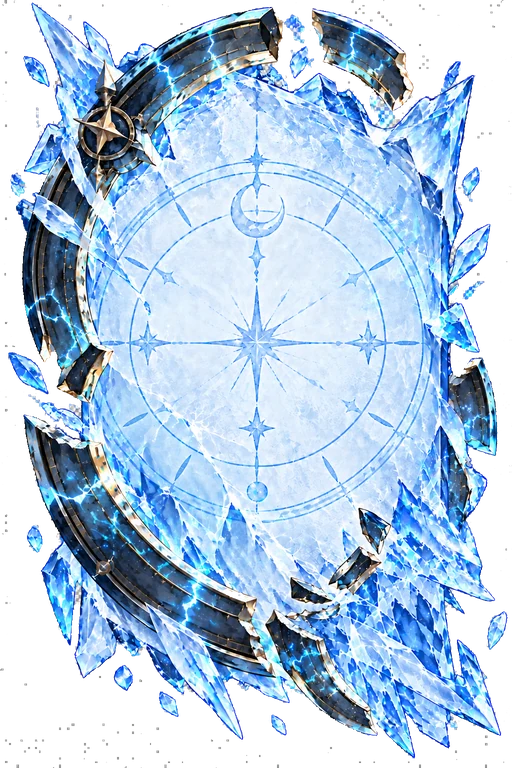
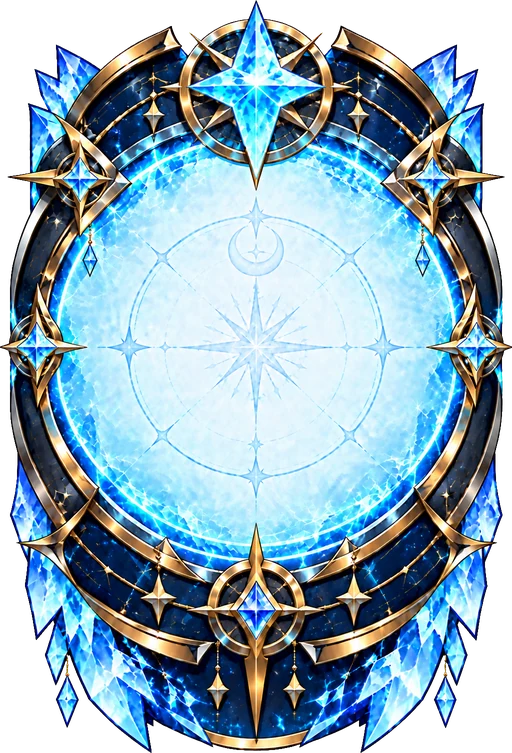
v132: 星環カードの差し替えと凍結表示の改善
星環カード
- 金の装飾と四方の星を持つ新デザインに変更
- 従来はセトラの通常カードと同じ青系で見分けがつかなかった
- グリーンバックを除去、512x753 140KB

凍結の残り秒
- 右下の小さいバッジ → カード中央の大きい表示に移動
- サイズを 13u → 22u、文字を 9u → 15u に拡大
- 中央で数字が重なるため、凍結中はカード本来の n-big を28%に減光
- 凍結演出のアニメも中央寄せの transform に合わせて修正

diff --git a/index.html b/index.html
@@ -1438,6 +1438,8 @@ body{background:linear-gradient(180deg,#0a0020 0%,#12002e 40%,#180040 70%,#1a003
     linear-gradient(58deg,transparent 44%,rgba(255,255,255,.95) 46%,transparent 48%),
     linear-gradient(-38deg,transparent 60%,rgba(255,255,255,.8) 62%,transparent 64%),
     linear-gradient(14deg,transparent 26%,rgba(255,255,255,.7) 28%,transparent 30%);}
+/* v132: 中央に秒数を出すので、凍結中はカード本来の大きい数字を薄くして重なりを避ける */
+.card-stage.frozen .n-big{opacity:.28;}
 /* v131: 凍った瞬間だけ強く光らせて見逃しを防ぐ */
 .card-stage.just-frz{animation:justFrz .9s ease-out both;}
 @keyframes justFrz{
@@ -1453,14 +1455,16 @@ body{background:linear-gradient(180deg,#0a0020 0%,#12002e 40%,#180040 70%,#1a003
   100%{opacity:1;transform:scale(1);}
 }
 .card-stage.just-frz .frz-sec{animation:justFrzSec .9s cubic-bezier(.2,1.4,.4,1) both;}
-@keyframes justFrzSec{0%{opacity:0;transform:scale(2.2);}45%{opacity:1;transform:scale(1);}100%{opacity:1;transform:scale(1);}}
+@keyframes justFrzSec{0%{opacity:0;transform:translate(-50%,-50%) scale(2.2);}45%{opacity:1;transform:translate(-50%,-50%) scale(1);}100%{opacity:1;transform:translate(-50%,-50%) scale(1);}}
 
-.frz-sec{position:absolute;right:calc(2.5 * var(--u));bottom:calc(2 * var(--u));z-index:8;pointer-events:none;
-  min-width:calc(13 * var(--u));height:calc(13 * var(--u));padding:0 calc(2 * var(--u));
-  display:flex;align-items:center;justify-content:center;border-radius:calc(6.5 * var(--u));
-  font-family:'Inter',sans-serif;font-weight:900;font-size:calc(9 * var(--u));color:#06304d;
-  background:linear-gradient(160deg,#eaf9ff,#a8dcf7);border:1px solid rgba(255,255,255,.9);
-  box-shadow:0 calc(1 * var(--u)) calc(3 * var(--u)) rgba(0,40,80,.5);}
+/* v132: 残り秒はカード中央に大きく出す（右下だと見づらいため） */
+.frz-sec{position:absolute;left:50%;top:50%;transform:translate(-50%,-50%);z-index:8;pointer-events:none;
+  min-width:calc(22 * var(--u));height:calc(22 * var(--u));padding:0 calc(3 * var(--u));
+  display:flex;align-items:center;justify-content:center;border-radius:calc(11 * var(--u));
+  font-family:'Inter',sans-serif;font-weight:900;font-size:calc(15 * var(--u));color:#06304d;
+  background:linear-gradient(160deg,rgba(240,252,255,.97),rgba(160,215,245,.95));
+  border:calc(1.2 * var(--u)) solid rgba(255,255,255,.95);
+  box-shadow:0 calc(1.5 * var(--u)) calc(5 * var(--u)) rgba(0,40,80,.55),0 0 calc(8 * var(--u)) rgba(150,220,255,.6);}
 
 /* v120: イントロ動画。画面いっぱいに出し、タップでスキップ */
 .iv-screen{position:fixed;inset:0;z-index:210;background:#05070f;display:flex;align-items:center;justify-content:center;cursor:pointer;animation:bfIn .3s ease both;}
@@ -2952,7 +2956,8 @@ function TutorialScreen({pendingDiff,onFinish,onExit,trackNum,toggleMusic,coachN
 
 
 // ── MenuScreen ──
-const APP_VER='v131'; // v131(2026/09/09): セトラの凍結を3枚→1枚に緩和（勝率16%→49%）。凍結音の立ち上がりを76%強めて気づきやすく。凍った瞬間だけカードを光らせる演出を追加
+const APP_VER='v132'; // v132(2026/09/09): セトラの星環カードを金装飾入りの新デザインに変更（通常カードと見分けがつかなかったため）。凍結の残り秒を右下から中央の大きい表示に移動
+// v131(2026/09/09): セトラの凍結を3枚→1枚に緩和（勝率16%→49%）。凍結音の立ち上がりを76%強めて気づきやすく。凍った瞬間だけカードを光らせる演出を追加
 // v130(2026/09/09): セトラ戦の専用BGM（Frozen Judgment 3.6MB→2.3MB）。凍結まわりのSEを氷の音に作り直し。凍った札を誤タップした時は硬い氷を触る手応えの音
 // v129(2026/09/09): セトラ戦の専用素材を導入（対戦背景・セトラの通常カード・プレイヤーの手札カード・手札マット）。8.0MB→0.48MBに圧縮。立ち絵は不透明度62%＋下端ぼかし＋ゆっくり漂わせて静止画感を消した
 // v128(2026/09/09): マップ座標が12個のままで13番目のセトラを追加したため、pos[12]がundefinedになり「遊ぶ」で画面が真っ白になるバグを修正
